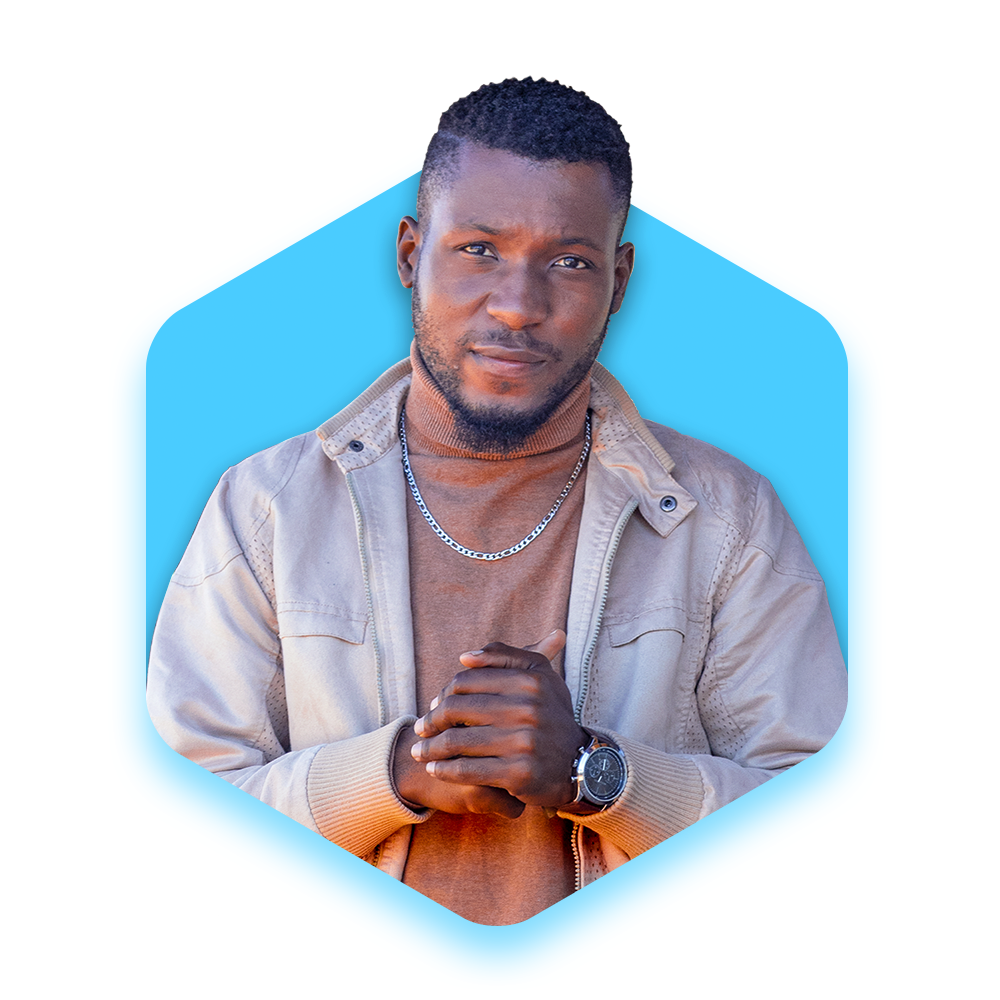
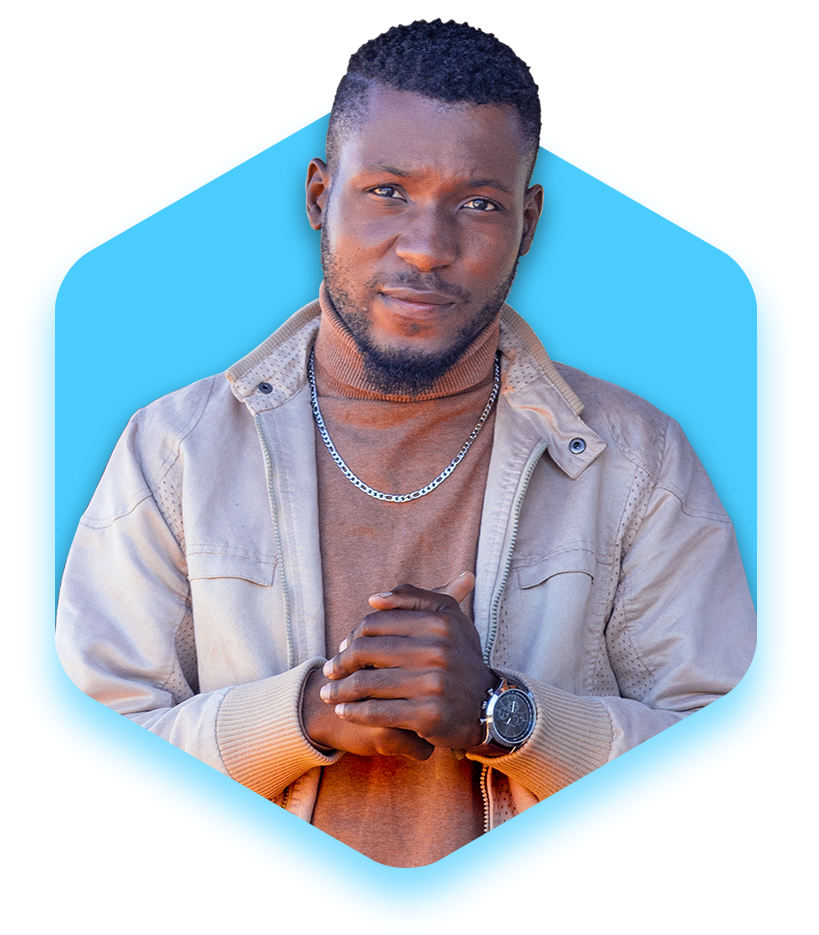
home page media adjustments

diff --git a/style.css b/style.css
@@ -99,7 +99,7 @@ body {
 }
 
 .home-img img {
-  max-width: 550px;
+  max-width: 450px;
   margin-right: -20px;
   opacity: 0;
   animation: zoomIn 1s ease forwards, floatImage 4s ease-in-out infinite;
@@ -251,4 +251,40 @@ body {
   }
 }
 
+@media (max-width: 1160px) {
+  .header {
+    padding: 20px 5%;
+  }
+
+  .home {
+    padding: 70px 5% 0;
+  }
+}
+
+@media (max-width: 1024px) {
+  .header {
+    padding: 20px 20px;
+  }
+
+  .home {
+    padding: 100px 20px 0;
+  }
+  .multiple-text {
+    display: flex;
+  }
+
+  .home-content h3:nth-of-type(2) {
+    margin-bottom: 0;
+  }
+
+  .home-img img {
+    width: 400px;
+  }
+}
+
+@media (max-width: 768px) {
+  .home {
+    flex-direction: column;
+  }
+}
 /*______________home section ends_____________*/
